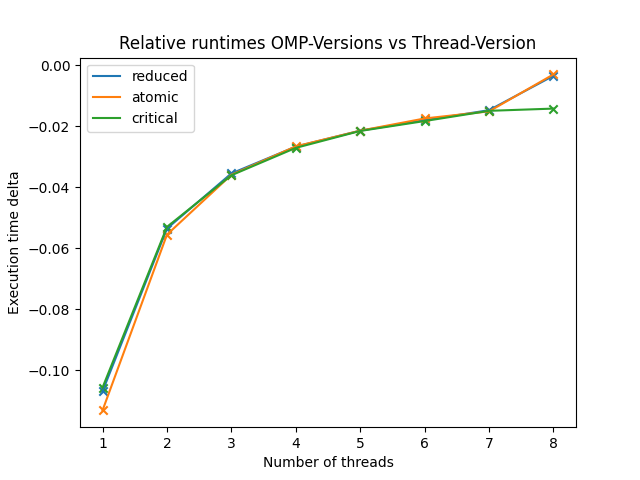
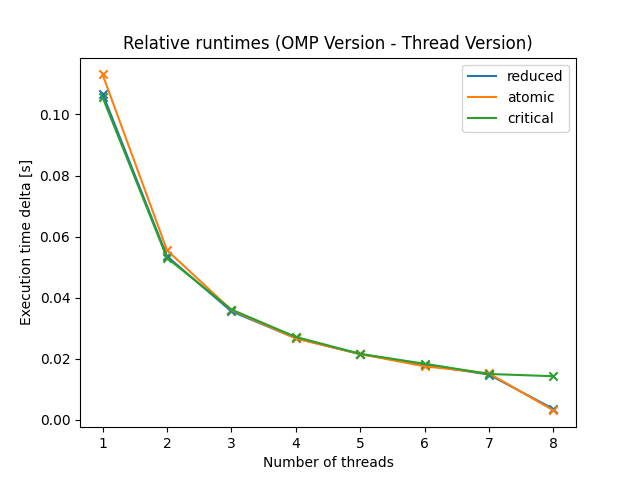
Added more plots

diff --git a/Assignment_03/task1/plots.py b/Assignment_03/task1/plots.py
@@ -18,9 +18,9 @@ def plot_total_runtimes(threads, red, atomic, critical ,base):
     plt.clf()
 
 def plot_delta_runtimes(threads, red, atomic, critical, base):
-    reddiff = [t-e for t, e in zip(threads, red)]
-    atomicdiff = [t-e for t, e in zip(threads, atomic)]
-    criticaldiff = [t-e for t, e in zip(threads, critical)]
+    reddiff = [e-t for t, e in zip(threads, red)]
+    atomicdiff = [e-t for t, e in zip(threads, atomic)]
+    criticaldiff = [e-t for t, e in zip(threads, critical)]
     plt.plot(base, reddiff)
     plt.scatter(base, reddiff, marker='x')
     plt.plot(base, atomicdiff)
@@ -28,13 +28,29 @@ def plot_delta_runtimes(threads, red, atomic, critical, base):
     plt.plot(base, criticaldiff)
     plt.scatter(base, criticaldiff, marker='x')
     plt.xlabel("Number of threads")
-    plt.ylabel("Execution time delta")
+    plt.ylabel("Execution time delta [s]")
     plt.legend(['reduced', 'atomic','critical'])
-    plt.title('Relative runtimes OMP-Versions vs Thread-Version')
+    plt.title('Relative runtimes (OMP Version - Thread Version)')
     plt.savefig('./plots/relative_runtimes.png')
     plt.clf()
 
-
+def plot_bar_runtimes(threads, red, atomic, critical, base):
+    plt.bar(['Reduced'], red[0] - threads[0])
+    plt.bar(['Atomic'], atomic[0] - threads[0])
+    plt.bar(['Critical'], critical[0] - threads[0])
+    plt.xlabel("Number of Threads - Version")
+    plt.ylabel("Execution time [s]")
+    plt.title('Relative runtimes (OMP Version - Thread Version), 1 Thread')
+    plt.savefig('./plots/relative_runtimes_bars_1.png')
+    plt.clf()
+    plt.bar(['Reduced'], red[7] - threads[7])
+    plt.bar(['Atomic'], atomic[7] - threads[7])
+    plt.bar(['Critical'], critical[7] - threads[7])
+    plt.xlabel("Number of Threads - Version")
+    plt.ylabel("Execution time [s]")
+    plt.title('Relative runtimes (OMP Version - Thread Version), 8 Threads')
+    plt.savefig('./plots/relative_runtimes_bars_8.png')
+    plt.clf()
 
 def print_table(base, col1, col2, col3, col4, title_line):
     result = title_line
@@ -78,4 +94,5 @@ if __name__ == '__main__':
         res = readFile(sys.argv[1])
         plot_total_runtimes(res[0], res[1], res[2], res[3], range(1,9))
         plot_delta_runtimes(res[0], res[1], res[2], res[3], range(1,9))
+        plot_bar_runtimes(res[0], res[1], res[2], res[3], range(1,9))
         print_table(range(1,9), res[0], res[1], res[2], res[3], '| number_of_threads | thread_version | reduced_version | atomic_version | critical_version |\n')
